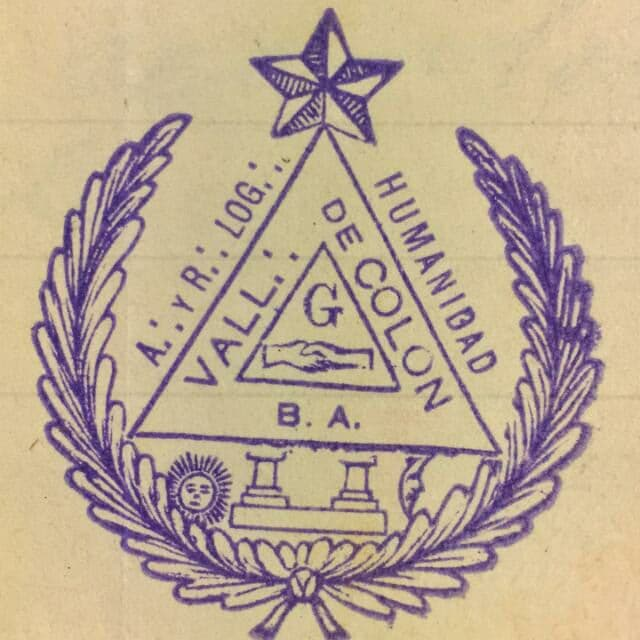
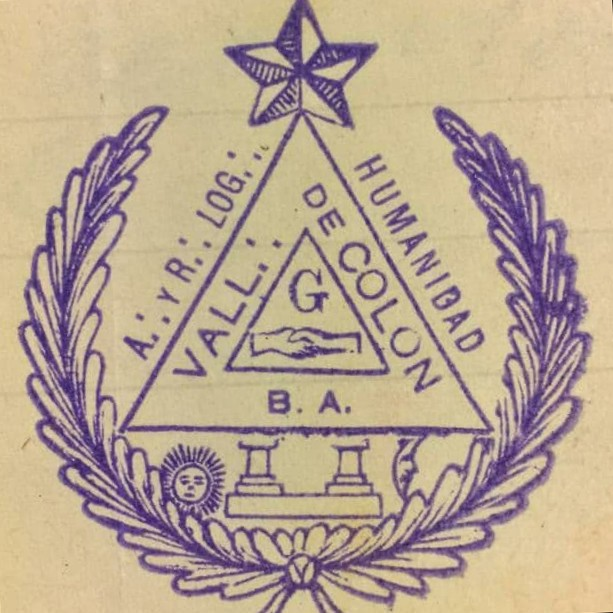
comm5

diff --git a/about/index.html b/about/index.html
@@ -43,8 +43,8 @@
 <meta property="og:image" content="https://humanidad.ar/images/about.jpg" />
   <meta name="twitter:image" content="https://humanidad.ar/images/about.jpg"/>
       <meta name="twitter:card" content="summary">
-    <meta property="og:image:width" content="640">
-    <meta property="og:image:height" content="640">
+    <meta property="og:image:width" content="613">
+    <meta property="og:image:height" content="613">
     <meta property="og:image:type" content="image/jpeg">
 <meta name="twitter:title" content="Logia Humanidad de Colón Nº 230."/>
 <meta name="twitter:description" content="Logia Humanidad de Colón"/>
